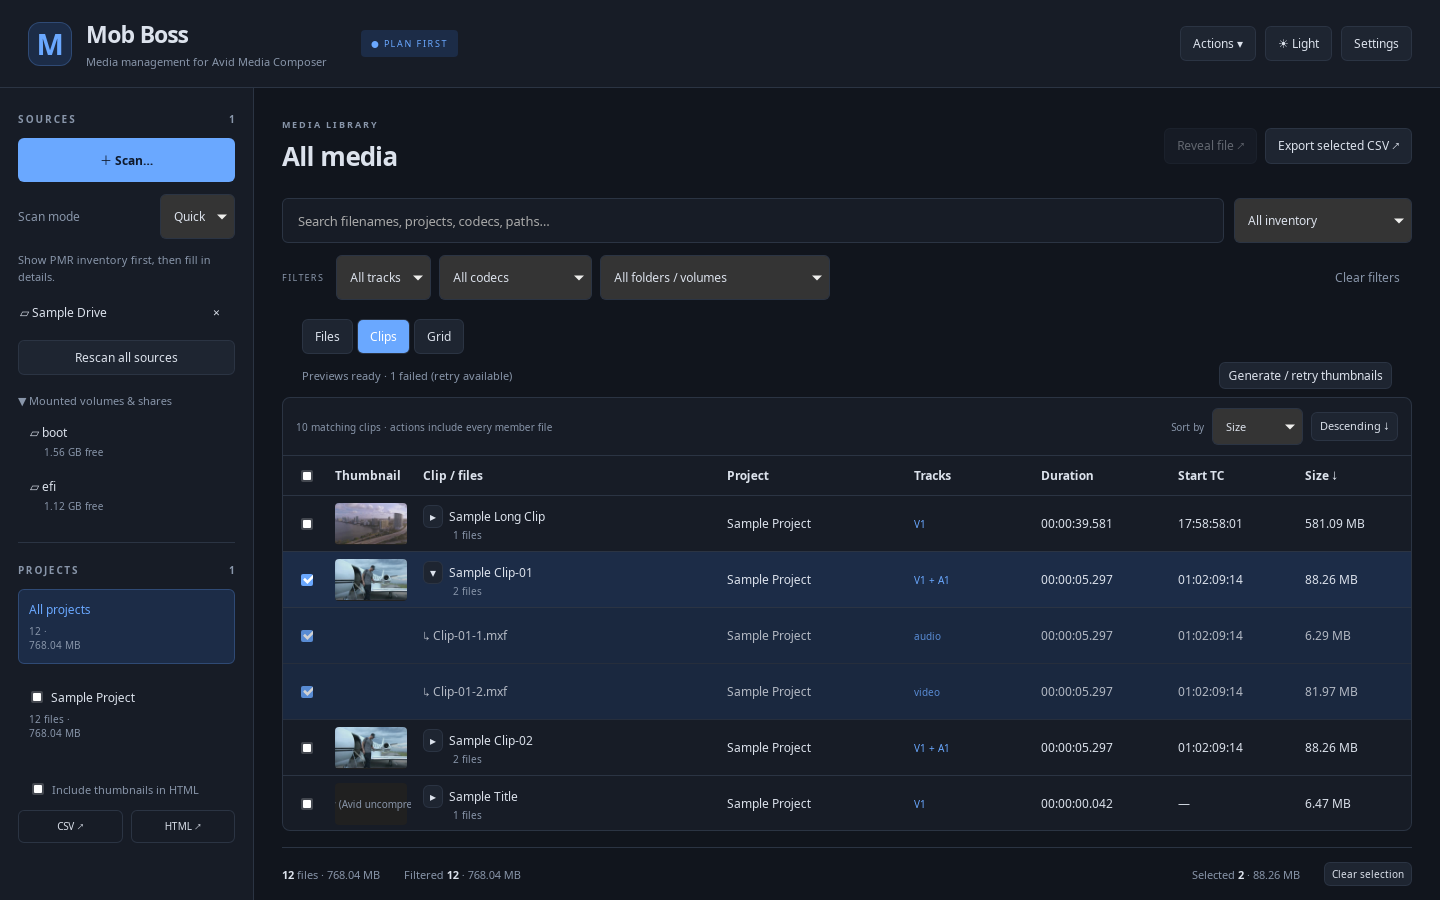
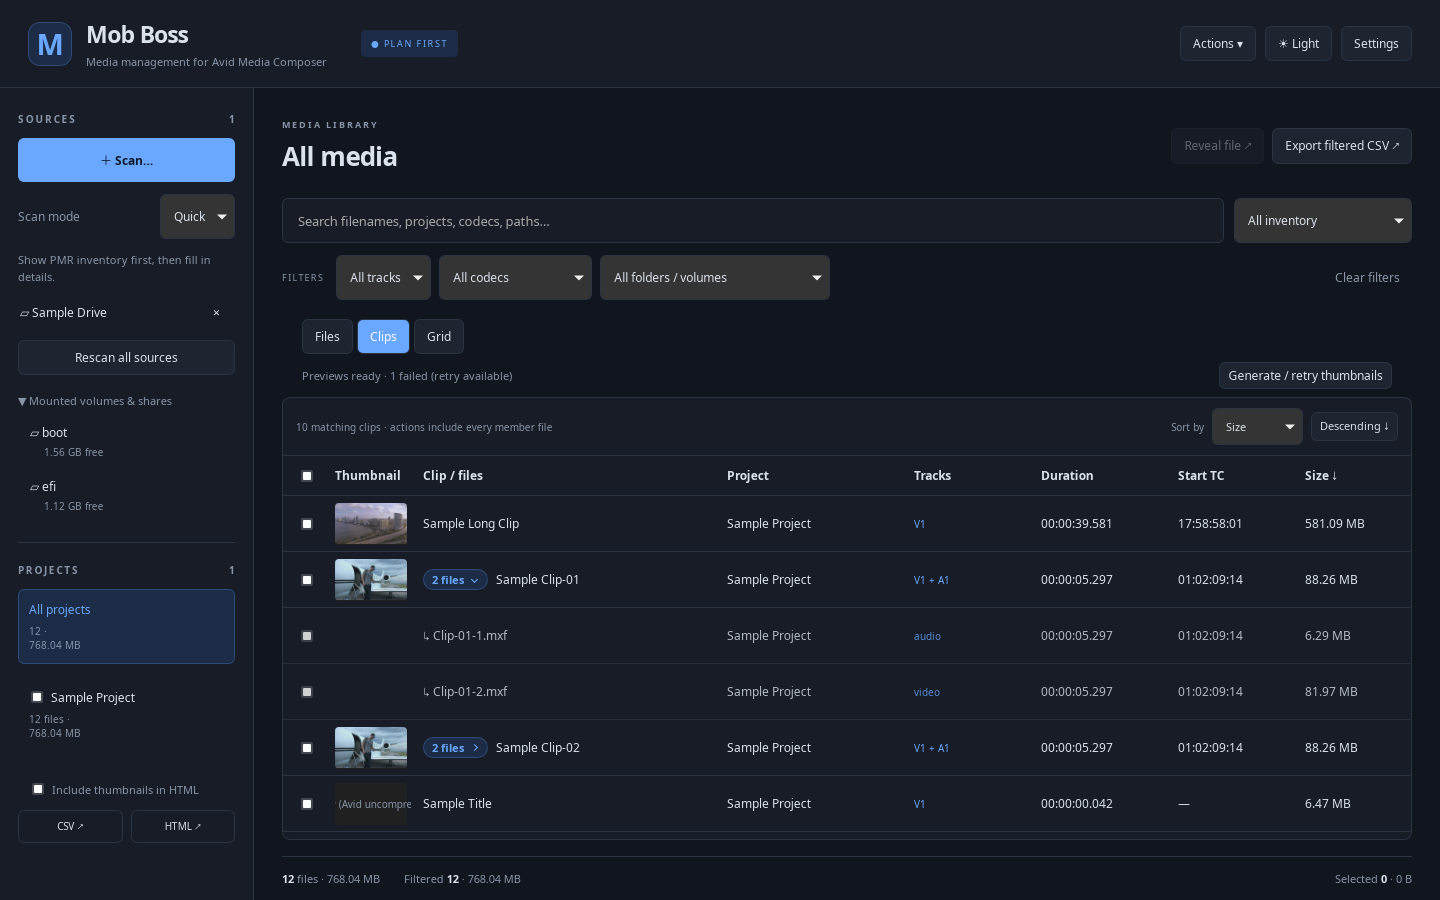
Use a file-count pill for clip member expansion

diff --git a/apps/desktop/src/ClipTable.tsx b/apps/desktop/src/ClipTable.tsx
@@ -315,22 +315,28 @@ export default function ClipTable({
                     <Fragment>↳ {filename(file.path)}</Fragment>
                   ) : (
                     <>
-                      <button
-                        aria-label={`Expand ${clip.name}`}
-                        aria-expanded={expanded.has(clip.id)}
-                        onClick={(e) => {
-                          e.stopPropagation();
-                          const next = new Set(expanded);
-                          next.has(clip.id)
-                            ? next.delete(clip.id)
-                            : next.add(clip.id);
-                          setExpanded(next);
-                        }}
-                      >
-                        {expanded.has(clip.id) ? "▾" : "▸"}
-                      </button>
+                      {clip.files.length > 1 && (
+                        <button
+                          className="clip-files-pill"
+                          aria-label={`Show ${clip.files.length} files in this clip`}
+                          aria-expanded={expanded.has(clip.id)}
+                          onClick={(e) => {
+                            e.stopPropagation();
+                            const next = new Set(expanded);
+                            next.has(clip.id)
+                              ? next.delete(clip.id)
+                              : next.add(clip.id);
+                            setExpanded(next);
+                          }}
+                        >
+                          {clip.files.length} files
+                          <span
+                            className="clip-files-chevron"
+                            aria-hidden="true"
+                          />
+                        </button>
+                      )}
                       {clip.name}
-                      <small>{clip.files.length} files</small>
                     </>
                   )}
                 </span>

diff --git a/apps/desktop/src/style.css b/apps/desktop/src/style.css
@@ -805,14 +805,33 @@ progress {
   text-overflow: ellipsis;
   white-space: nowrap;
 }
-.clip-name button {
-  padding: 2px 6px;
-  margin-right: 6px;
+.clip-files-pill {
+  display: inline-flex;
+  align-items: center;
+  gap: 8px;
+  padding: 2px 8px;
+  margin-right: 8px;
+  border-radius: 999px;
+  color: var(--accent);
+  background: var(--accent-bg);
+  border-color: var(--accent-border);
+  font-size: 11px;
+  font-weight: 600;
 }
-.clip-name small {
-  display: block;
-  color: var(--muted);
-  margin-left: 30px;
+.clip-files-pill:hover {
+  border-color: var(--accent);
+  background: var(--accent-bg);
+}
+.clip-files-chevron {
+  width: 5px;
+  height: 5px;
+  margin-right: 2px;
+  border-right: 1.5px solid currentColor;
+  border-bottom: 1.5px solid currentColor;
+  transform: rotate(-45deg);
+}
+.clip-files-pill[aria-expanded="true"] .clip-files-chevron {
+  transform: rotate(45deg);
 }
 .clip-member {
   opacity: 0.8;

diff --git a/docs/previews-validation.md b/docs/previews-validation.md
@@ -238,7 +238,10 @@ Clips headers toggle ascending/descending sort. Clips and Grid share a persisted
 sort choice (name, project, created/modified, duration, size, start TC, tracks).
 Comparisons use natural name ordering, actual rates for duration/timecode, stable
 name/UID ties and unknown values last in both directions. Expanding clips and
-selecting all member files still works after sorting.
+selecting all member files still works after sorting. Multi-file clips use an
+accent-colored file-count pill with a rotating chevron and accessible expansion
+state; single-file clips have no expander. Native xvfb verified both states and
+that expanding does not open playback.
 
 `ThumbnailQueue` uses a mutable priority heap for pending jobs: viewport clips,
 then sorted/filtered display order, then filtered-out jobs. IntersectionObserver
